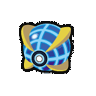
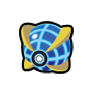
More updates (#97)
* Replaced Cottonee sprite with B2W2 version.
* Changed Neutral Mode Xerneas in Favorite Box Legendary to Active Mode, since Active Mode Xerneas is on the Pokémon X box.
* Fixed crusty Beast Ball sprite.

diff --git a/pokemon_arrays.js b/pokemon_arrays.js
@@ -2701,7 +2701,7 @@ var arrays = {
 	  "ZEKROM",
 	  "KYUREM_1",
 	  "KYUREM_2",
-	  "XERNEAS",
+	  "XERNEAS_1",
 	  "YVELTAL",
 	  "GROUDON_1",
 	  "KYOGRE_1",
